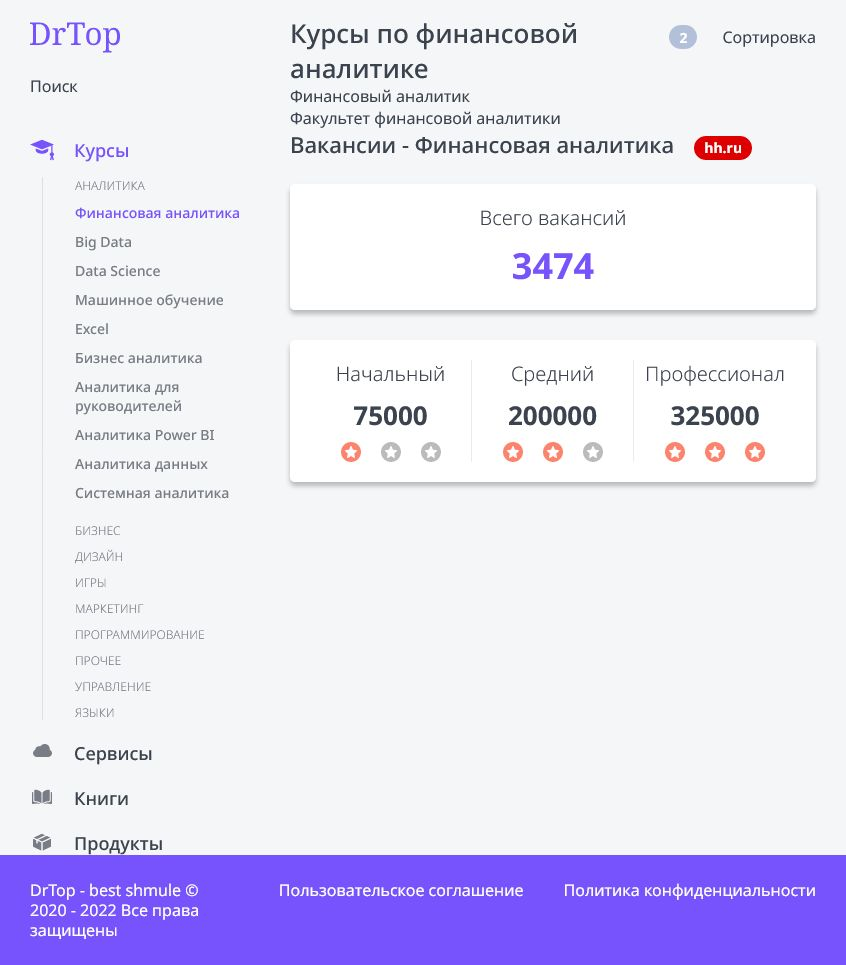
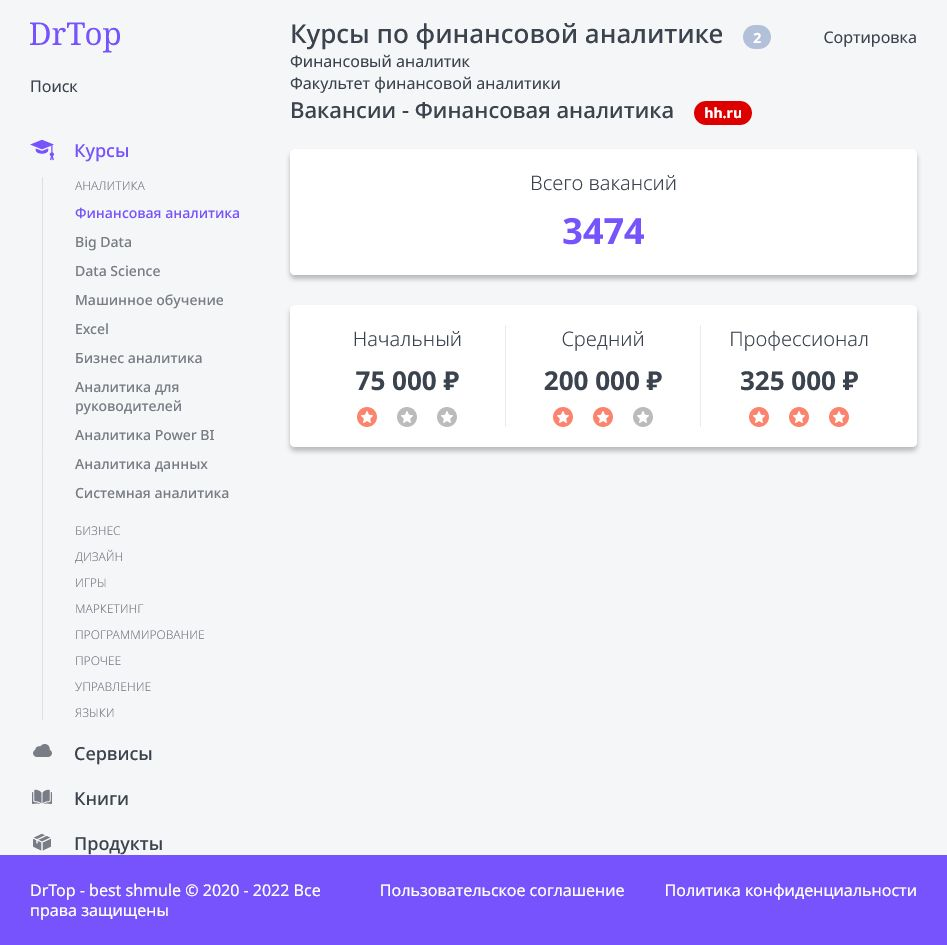
feat: add regexp to salary string

Changed region(s): [[0.3073, 0.0307, 0.9835, 0.5217], [0.0, 0.0, 1.0, 0.982], [0.8605, 0.0307, 0.9835, 0.0614]]

diff --git a/renext-app/components/HhData/HhData.tsx b/renext-app/components/HhData/HhData.tsx
@@ -2,6 +2,7 @@ import { HhDataProps } from "./HhData.props";
 import styles from "./HhData.module.css";
 import { Card } from "..";
 import RateIcon from "./rate.svg";
+import { priceRu } from "../../helpers/helpers";
 
 export const HhData = ({
   count,
@@ -18,7 +19,7 @@ export const HhData = ({
       <Card className={styles.salary}>
         <div>
           <div className={styles.title}>Начальный</div>
-          <div className={styles.salaryValue}>{juniorSalary}</div>
+          <div className={styles.salaryValue}>{priceRu(juniorSalary)}</div>
           <div className={styles.rate}>
             <RateIcon className={styles.filled} />
             <RateIcon />
@@ -27,7 +28,7 @@ export const HhData = ({
         </div>
         <div>
           <div className={styles.title}>Средний</div>
-          <div className={styles.salaryValue}>{middleSalary}</div>
+          <div className={styles.salaryValue}>{priceRu(middleSalary)}</div>
           <div className={styles.rate}>
             <RateIcon className={styles.filled} />
             <RateIcon className={styles.filled} />
@@ -36,7 +37,7 @@ export const HhData = ({
         </div>
         <div>
           <div className={styles.title}>Профессионал</div>
-          <div className={styles.salaryValue}>{seniorSalary}</div>
+          <div className={styles.salaryValue}>{priceRu(seniorSalary)}</div>
           <div className={styles.rate}>
             <RateIcon className={styles.filled} />
             <RateIcon className={styles.filled} />

diff --git a/renext-app/helpers/helpers.tsx b/renext-app/helpers/helpers.tsx
@@ -31,3 +31,9 @@ export const firstLevelMenu: FirstLevelMenuItem[] = [
     id: TopLevelCategory.Products,
   },
 ];
+
+export const priceRu = (price: number): string =>
+  price
+    .toString()
+    .replace(/\B(?=(\d{3})+(?!\d))/g, " ")
+    .concat(" ₽");
